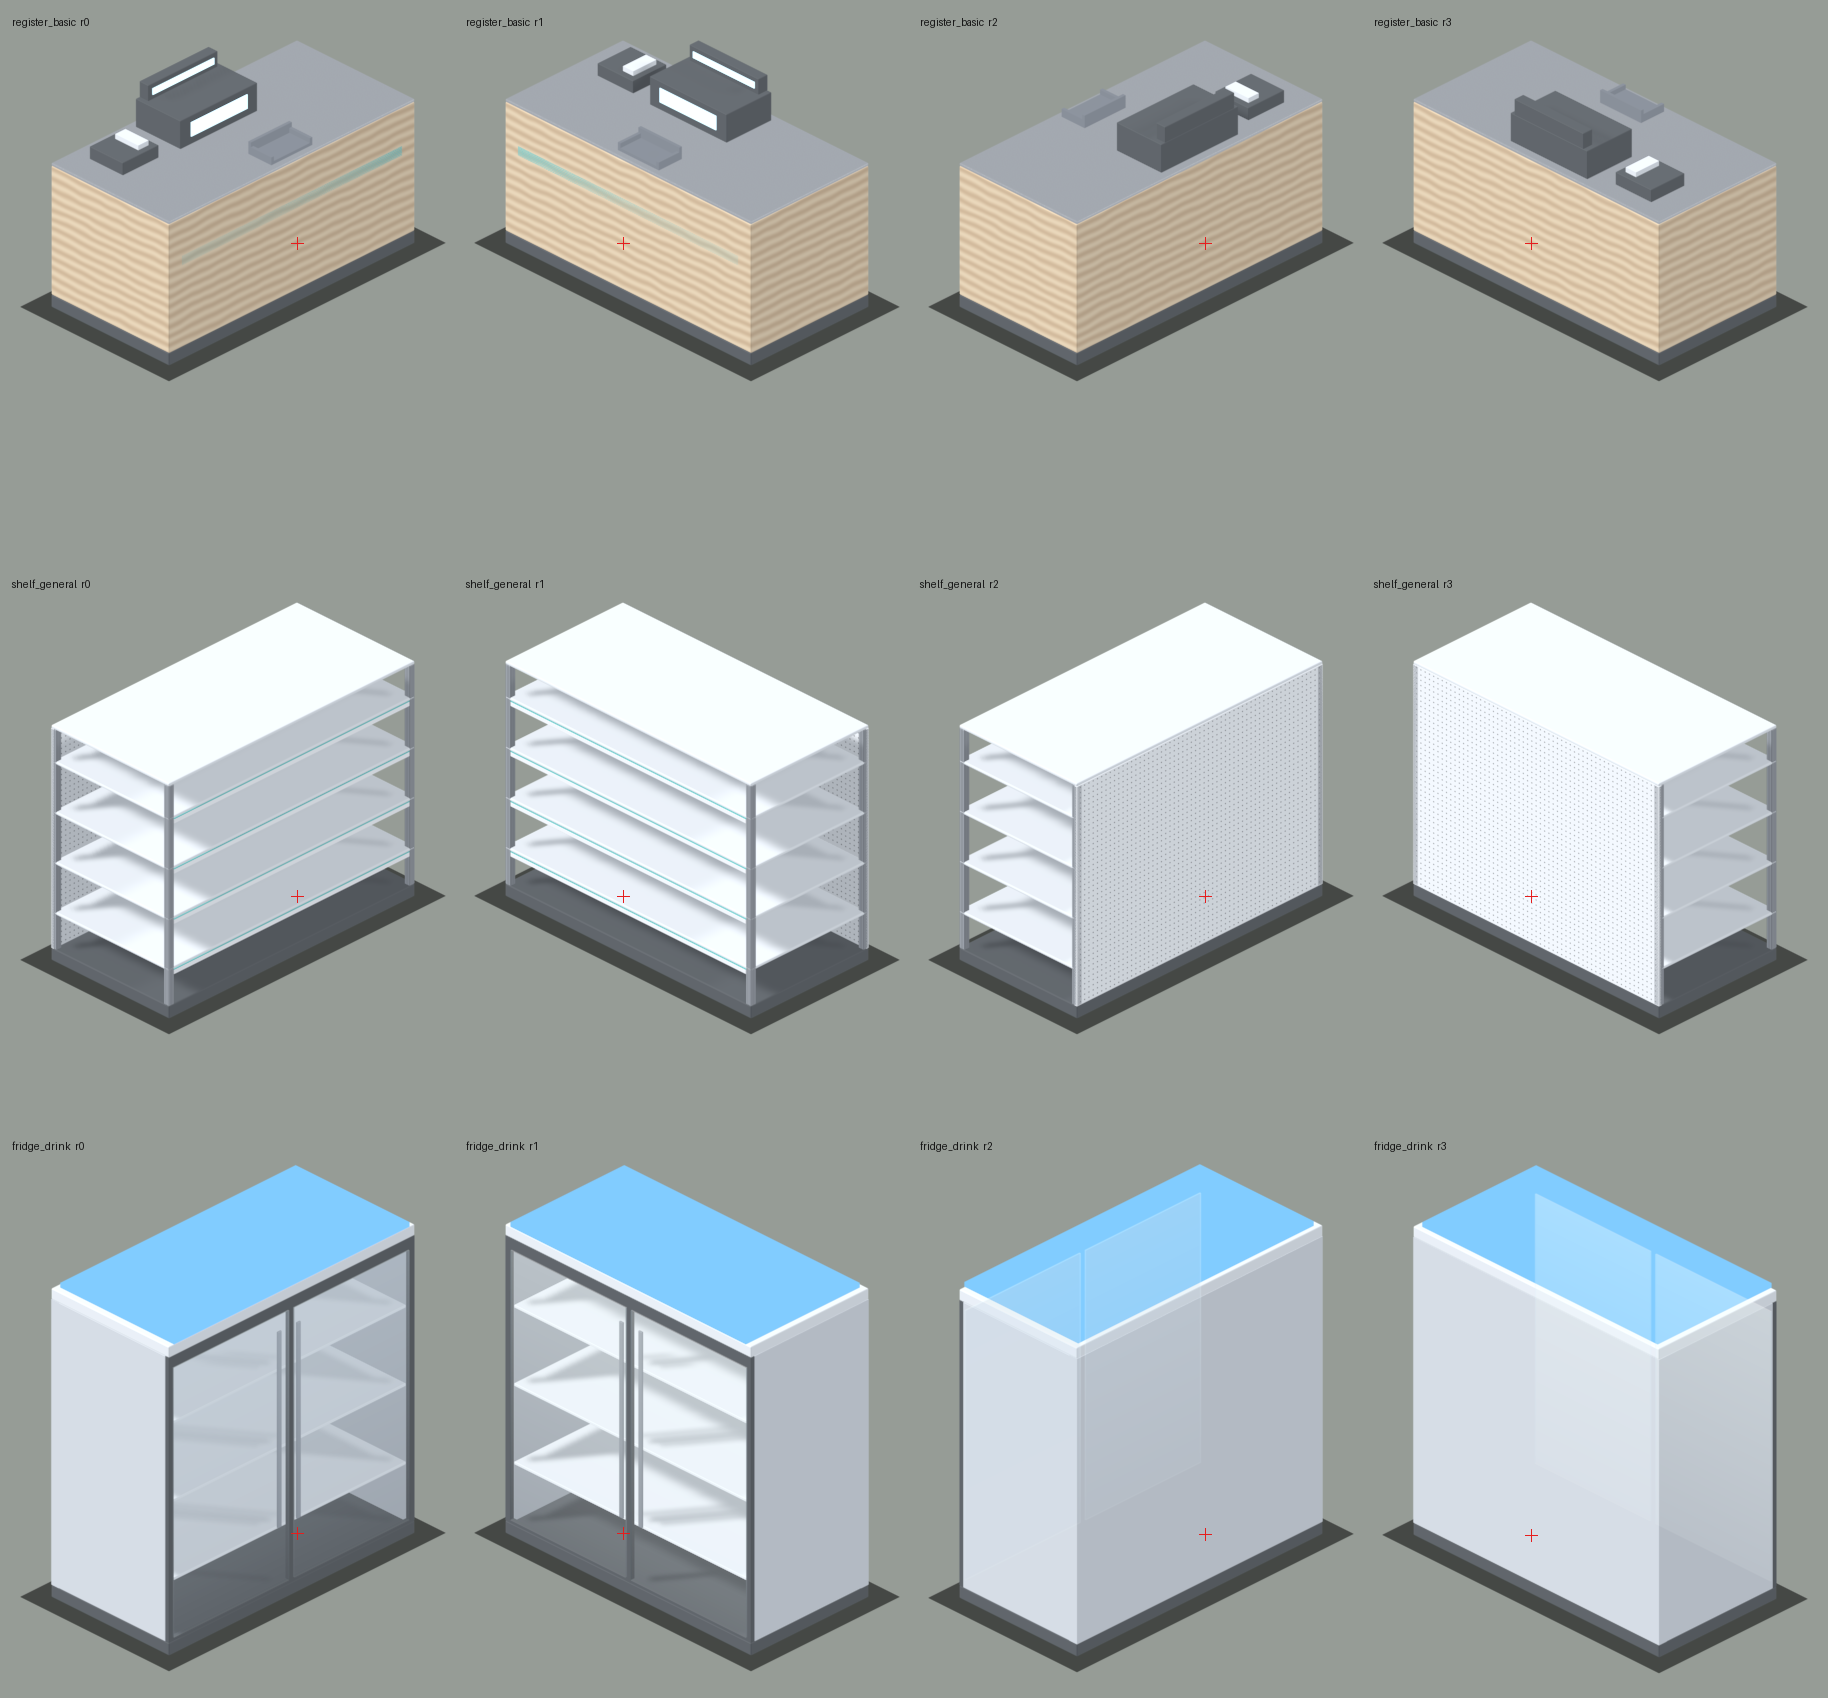
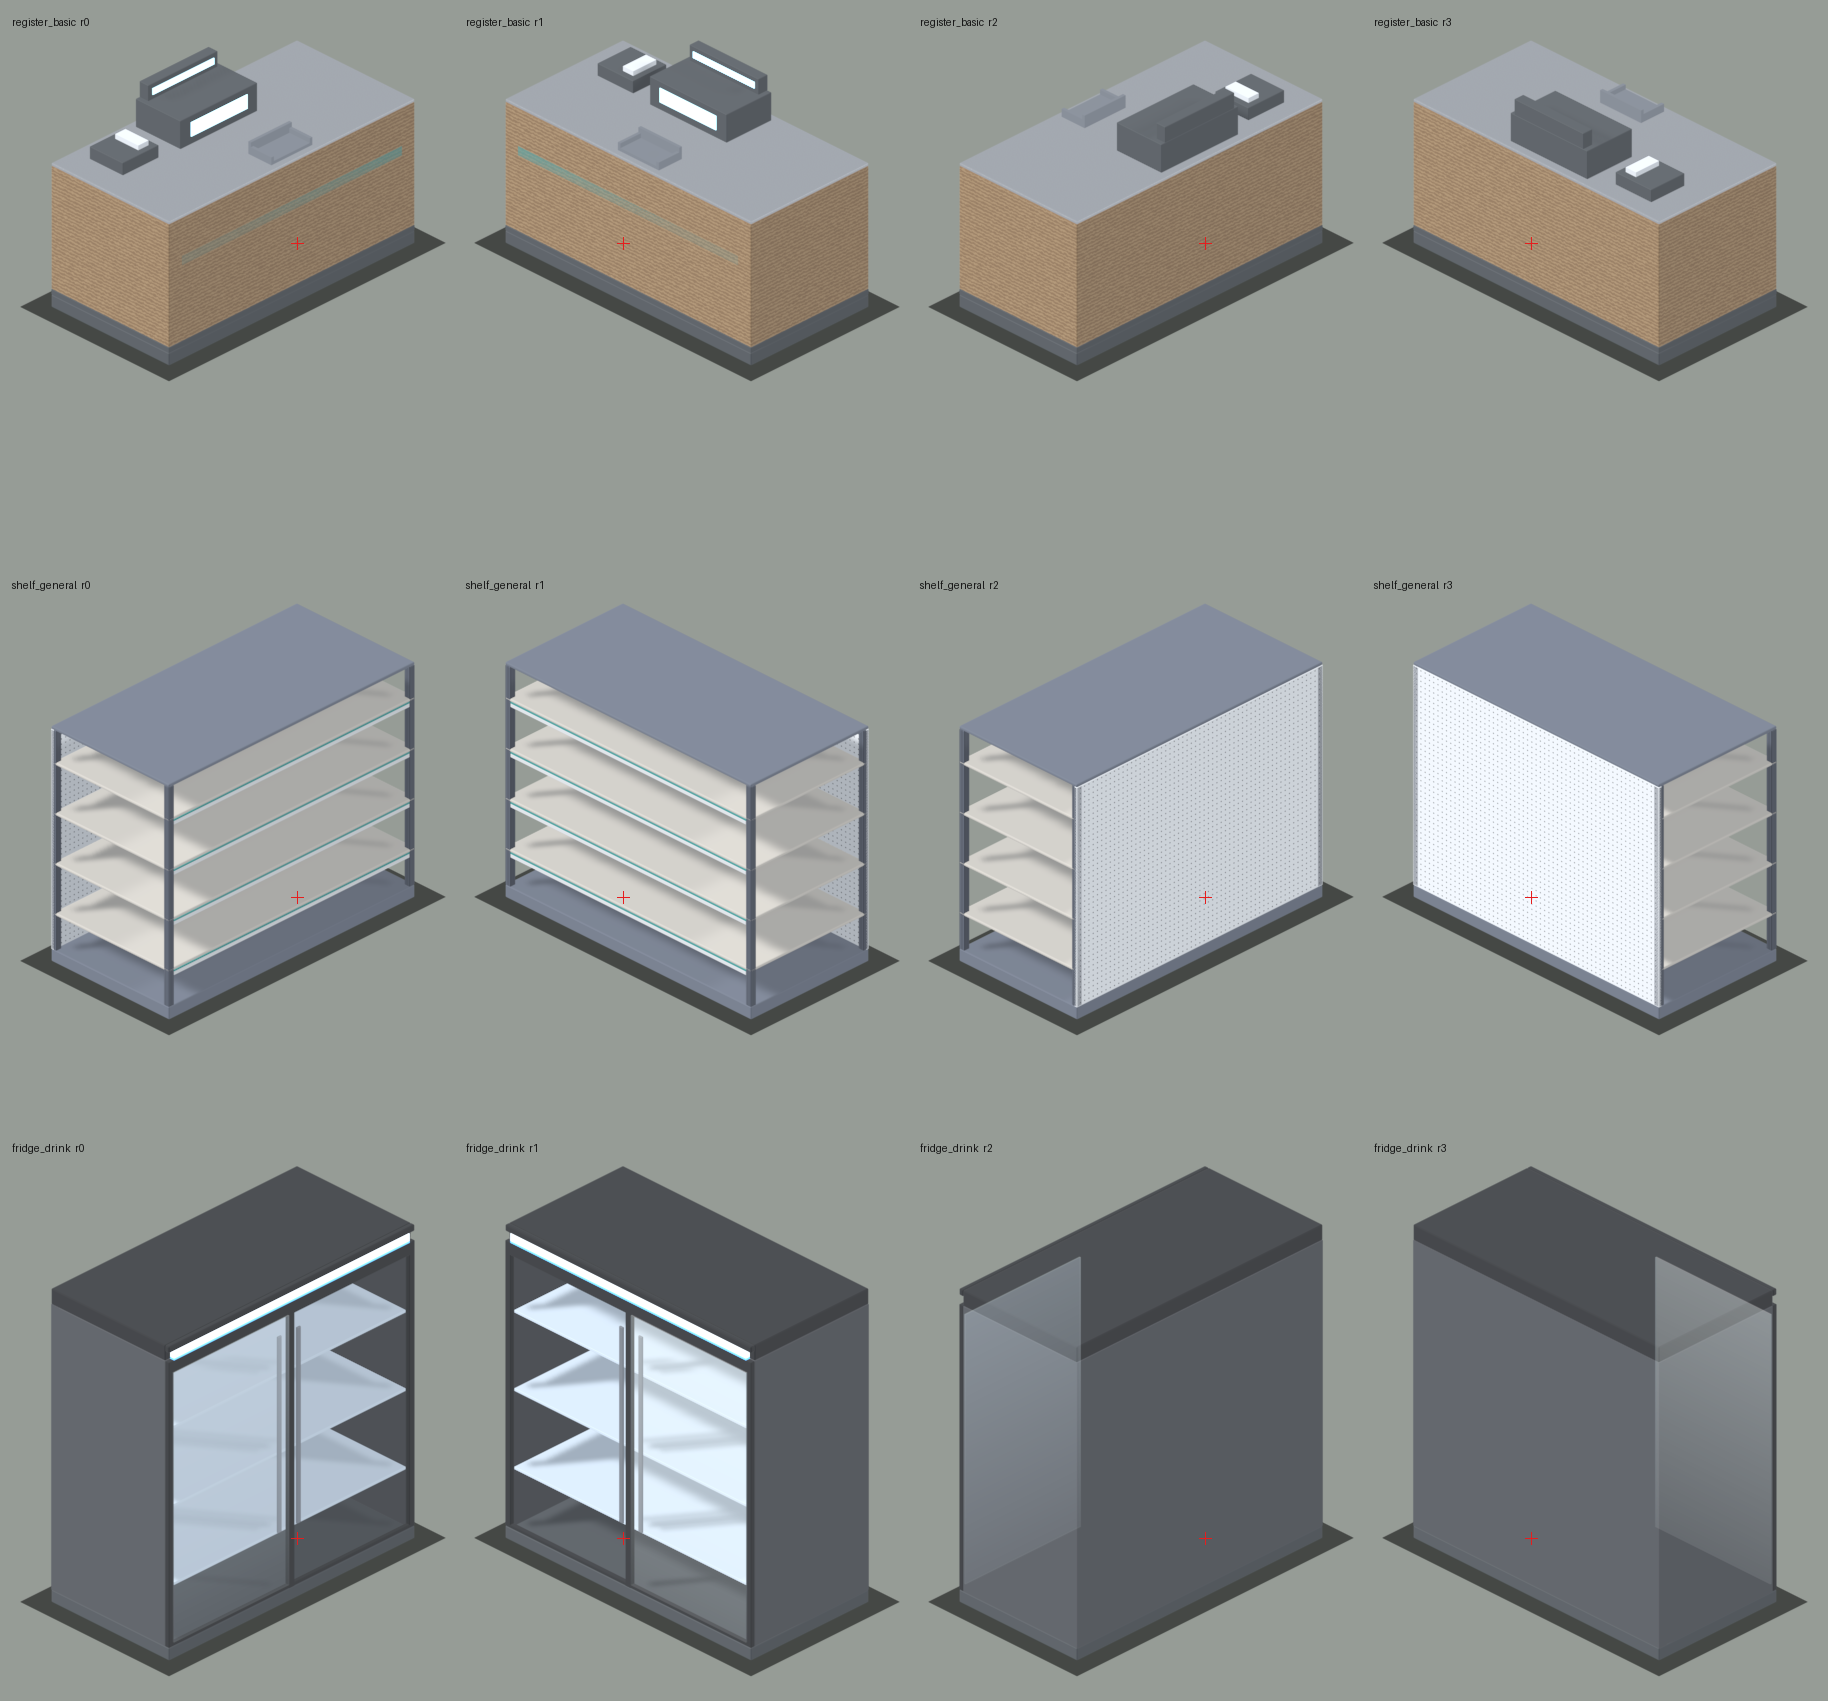
fix(art): fixture v2 review pass - cooler housing, gondola contrast, counter grain (#61)
- fridge_drink: charcoal top and frame, mid-grey housing sides, lit header
  strip only above the doors (cool white with a thin blue band), cool bright
  interior, glass only on the door side (far-side glass is no longer
  composited over the opaque housing).
- shelf_general: warm light-grey boards, #6b7280 uprights/plinth/top cap,
  slightly darker pegboard, grey price rails with thicker coloured strip.
- register_basic: walnut laminate with fine low-contrast grain, dark rubber
  edge band on the counter front, brighter POS screen.
- Colour values are linear (Blender base colour), so #6b7280 is stored as its
  linear equivalent.

diff --git a/tools/assets/blueprints.py b/tools/assets/blueprints.py
@@ -22,7 +22,8 @@ MATERIALS = (
     "dark_polymer", "label_rail", "product_surface",
     # procedural looks (fixture_looks.py, Issue #61 Phase B)
     "wood_laminate", "stainless", "pegboard", "slotted_upright", "glass_gradient",
-    "pos_screen", "header_emit", "accent_strip", "price_rail", "cabinet_grey",
+    "pos_screen", "header_white", "header_blue", "accent_strip", "price_rail",
+    "board_warm", "housing_grey", "cabinet_grey", "charcoal", "interior_cool",
 )
 BEVEL_TINY = 0.003         # edge bevel radii for small parts / standards (m)
 BEVEL_SMALL = 0.006        # edge bevel for panels, boards and tops (m)
@@ -79,12 +80,12 @@ def _shelf_general(d):
     with a coloured strip, and a dark base plinth. Same rows and slots as the basic rack."""
     x0, y0, x1, y1 = _body_rect(*_wh(d))
     height = d["dimensions_m"]["height"]
-    boxes = [Box(x0, y0, 0.0, x1, y1, BASE, "dark_polymer", bevel=BEVEL_SMALL)]          # base plinth
+    boxes = [Box(x0, y0, 0.0, x1, y1, BASE, "housing_grey", bevel=BEVEL_SMALL)]          # base plinth
     boxes.append(Box(x0, y0, BASE, x0 + 0.02, y1, height - 0.02, "pegboard"))           # pegboard back
     boxes += _uprights(x0, y0, x1, y1, BASE, height - 0.02, "slotted_upright")
-    boxes.append(Box(x0, y0, height - 0.02, x1, y1, height, "shelf_white", bevel=BEVEL_SMALL))  # top cap
+    boxes.append(Box(x0, y0, height - 0.02, x1, y1, height, "housing_grey", bevel=BEVEL_SMALL))  # top cap (dark edge)
     for z in ROW_HEIGHTS["shelf_general"]:
-        boxes.append(Box(x0 + 0.02, y0, z - BOARD, x1, y1, z, "shelf_white", bevel=BEVEL_SMALL))
+        boxes.append(Box(x0 + 0.02, y0, z - BOARD, x1, y1, z, "board_warm", bevel=BEVEL_SMALL))
         boxes += _price_rail(x0, y0, x1, y1, z - BOARD)
     return boxes, []
 
@@ -101,8 +102,8 @@ def _price_rail(x0, y0, x1, y1, shelf_underside):
     """Shelf-edge price rail under a board: light grey rail with a thin coloured strip at its top."""
     top = shelf_underside
     return [
-        Box(x1 - 0.02, y0 + POST, top - 0.034, x1, y1 - POST, top - 0.006, "price_rail", bevel=BEVEL_TINY),
-        Box(x1 - 0.02, y0 + POST, top - 0.006, x1, y1 - POST, top, "accent_strip"),
+        Box(x1 - 0.02, y0 + POST, top - 0.034, x1, y1 - POST, top - 0.010, "price_rail", bevel=BEVEL_TINY),
+        Box(x1 - 0.02, y0 + POST, top - 0.010, x1, y1 - POST, top, "accent_strip"),
     ]
 
 
@@ -157,7 +158,8 @@ def _register_basic(d):
     x0, y0, x1, y1 = _body_rect(*_wh(d))
     boxes = [
         Box(x0, y0, 0.0, x1, y1, BASE, "dark_polymer", bevel=BEVEL_SMALL),                 # kick plate
-        Box(x0, y0, BASE, x1, y1, 0.90, "wood_laminate", bevel=BEVEL_SMALL),               # counter front
+        Box(x0, y0, BASE, x1, y1, BASE + 0.035, "dark_polymer", bevel=BEVEL_TINY),         # dark rubber edge band
+        Box(x0, y0, BASE + 0.035, x1, y1, 0.90, "wood_laminate", bevel=BEVEL_SMALL),       # counter front
         Box(x0, y0, 0.90, x1, y1, 0.92, "stainless", bevel=BEVEL_SMALL),                   # service top (0.92 m)
         Box(x1 - 0.02, y0 + 0.10, 0.60, x1, y1 - 0.10, 0.66, "accent_strip"),              # brand-neutral stripe
         Box(x0 + 0.05, 0.25, 0.92, x0 + 0.40, 0.85, 1.10, "dark_polymer", bevel=BEVEL_TINY),  # POS terminal
@@ -219,23 +221,26 @@ def _fridge_pro(d, rows):
         Box(x0, y0, BASE, x0 + 0.06, y1, top, "cabinet_grey"),                             # back panel (W)
         Box(x0, y0, BASE, door_x0, y0 + POST, top, "cabinet_grey", bevel=BEVEL_TINY),     # side panels
         Box(x0, y1 - POST, BASE, door_x0, y1, top, "cabinet_grey", bevel=BEVEL_TINY),
-        Box(x0, y0, top, x1, y1, height - 0.03, "shelf_white", bevel=BEVEL_SMALL),         # top cap
-        Box(x0 + 0.03, y0 + 0.04, height - 0.03, x1, y1 - 0.04, height, "header_emit"),    # lit header sign
+        # dark charcoal housing top; the front strip above the doors carries the lit header
+        Box(x0, y0, top, door_x0, y1, height, "charcoal", bevel=BEVEL_SMALL),
+        Box(door_x0, y0, top + 0.06, x1, y1, height, "charcoal", bevel=BEVEL_SMALL),
+        Box(door_x0, y0 + 0.04, top, x1, y1 - 0.04, top + 0.012, "header_blue"),           # thin blue band
+        Box(door_x0, y0 + 0.04, top + 0.012, x1, y1 - 0.04, top + 0.06, "header_white"),   # cool-white header
         # interior light strips on the back wall (emissive, visible through the glass)
         Box(x0 + 0.06, y0 + 0.10, BASE + 0.05, x0 + 0.075, y0 + 0.13, top - 0.05, "cool_white_led"),
         Box(x0 + 0.06, y1 - 0.13, BASE + 0.05, x0 + 0.075, y1 - 0.10, top - 0.05, "cool_white_led"),
-        # dark door frame: stiles, centre mullion, top and bottom rails
-        Box(door_x0, y0, BASE, x1, y0 + POST, top, "dark_polymer", bevel=BEVEL_TINY),
-        Box(door_x0, y1 - POST, BASE, x1, y1, top, "dark_polymer", bevel=BEVEL_TINY),
-        Box(door_x0, mid - 0.02, BASE, x1, mid + 0.02, top, "dark_polymer"),
-        Box(door_x0, y0, top - 0.08, x1, y1, top, "dark_polymer", bevel=BEVEL_TINY),
-        Box(door_x0, y0, BASE, x1, y1, 0.10, "dark_polymer", bevel=BEVEL_TINY),
+        # charcoal door frame: stiles, centre mullion, top and bottom rails
+        Box(door_x0, y0, BASE, x1, y0 + POST, top, "charcoal", bevel=BEVEL_TINY),
+        Box(door_x0, y1 - POST, BASE, x1, y1, top, "charcoal", bevel=BEVEL_TINY),
+        Box(door_x0, mid - 0.02, BASE, x1, mid + 0.02, top, "charcoal"),
+        Box(door_x0, y0, top - 0.08, x1, y1, top, "charcoal", bevel=BEVEL_TINY),
+        Box(door_x0, y0, BASE, x1, y1, 0.10, "charcoal", bevel=BEVEL_TINY),
         # vertical door handles, one each side of the mullion (inside the glass line)
         Box(door_x0, mid - 0.09, 0.45, door_x0 + 0.012, mid - 0.06, top - 0.20, "frame_metal", bevel=BEVEL_TINY),
         Box(door_x0, mid + 0.06, 0.45, door_x0 + 0.012, mid + 0.09, top - 0.20, "frame_metal", bevel=BEVEL_TINY),
     ]
     for z in rows:
-        boxes.append(Box(x0 + 0.06, y0 + POST, z - BOARD, door_x0, y1 - POST, z, "shelf_white", bevel=BEVEL_TINY))
+        boxes.append(Box(x0 + 0.06, y0 + POST, z - BOARD, door_x0, y1 - POST, z, "interior_cool", bevel=BEVEL_TINY))
     glass = [
         Box(x1 - GLASS, y0 + POST, 0.10, x1, mid - 0.02, top - 0.08, "glass_gradient", "glass_front"),
         Box(x1 - GLASS, mid + 0.02, 0.10, x1, y1 - POST, top - 0.08, "glass_gradient", "glass_front"),

diff --git a/tools/assets/fixture_looks.py b/tools/assets/fixture_looks.py
@@ -74,12 +74,15 @@ def wood_laminate(mat):
     wave = nodes.new("ShaderNodeTexWave")
     wave.wave_type = "BANDS"
     wave.bands_direction = "Z"
-    wave.inputs["Scale"].default_value = 5.0
-    wave.inputs["Distortion"].default_value = 1.6
-    wave.inputs["Detail"].default_value = 1.0
+    # fine, low-contrast grain: many thin bands, noisy distortion, narrow colour range
+    wave.inputs["Scale"].default_value = 14.0
+    wave.inputs["Distortion"].default_value = 4.0
+    wave.inputs["Detail"].default_value = 3.0
+    wave.inputs["Detail Scale"].default_value = 4.0
     links.new(vec, wave.inputs["Vector"])
-    col = ramp(nodes, links, wave.outputs["Fac"], [(0.0, (0.56, 0.41, 0.26)), (0.6, (0.66, 0.51, 0.34)), (1.0, (0.72, 0.58, 0.40))])
-    bsdf = principled(nodes, links, (0.6, 0.5, 0.4), roughness=0.46, specular=0.4)
+    # Base colours in this module are LINEAR (Blender default); the values below are a walnut-tone laminate.
+    col = ramp(nodes, links, wave.outputs["Fac"], [(0.0, (0.26, 0.16, 0.085)), (0.6, (0.33, 0.21, 0.11)), (1.0, (0.40, 0.27, 0.15))])
+    bsdf = principled(nodes, links, (0.3, 0.2, 0.1), roughness=0.5, specular=0.35)
     links.new(col, bsdf.inputs["Base Color"])
     output(nodes, links, bsdf.outputs[0])
 
@@ -113,24 +116,24 @@ def pegboard(mat):
     vor.inputs["Scale"].default_value = 30.0
     links.new(vec, vor.inputs["Vector"])
     col = ramp(nodes, links, vor.outputs["Distance"], [(0.0, (0.03, 0.03, 0.035)), (0.2, (0.03, 0.03, 0.035)), (0.26, (0.80, 0.82, 0.84))])
-    bsdf = principled(nodes, links, (0.8, 0.82, 0.84), roughness=0.6)
+    bsdf = principled(nodes, links, (0.45, 0.44, 0.42), roughness=0.6)
     links.new(col, bsdf.inputs["Base Color"])
     output(nodes, links, bsdf.outputs[0])
 
 
 def slotted_upright(mat):
-    """Gondola end upright: grey standard with a fine slot pattern (Brick mortar lines)."""
+    """Gondola end upright: #6b7280 standard with a fine slot pattern (Brick mortar lines)."""
     nt, nodes, links = fresh_tree(mat)
     vec = object_vector(nodes, links, (9.0, 9.0, 9.0))
     brick = nodes.new("ShaderNodeTexBrick")
-    brick.inputs["Color1"].default_value = (0.50, 0.53, 0.57, 1.0)
-    brick.inputs["Color2"].default_value = (0.44, 0.47, 0.51, 1.0)
-    brick.inputs["Mortar"].default_value = (0.10, 0.10, 0.11, 1.0)
+    brick.inputs["Color1"].default_value = (0.147, 0.168, 0.216, 1.0)     # #6b7280 (linear)
+    brick.inputs["Color2"].default_value = (0.125, 0.145, 0.19, 1.0)
+    brick.inputs["Mortar"].default_value = (0.02, 0.02, 0.025, 1.0)
     brick.inputs["Mortar Size"].default_value = 0.05
     brick.inputs["Brick Width"].default_value = 0.5
     brick.inputs["Row Height"].default_value = 0.25
     links.new(vec, brick.inputs["Vector"])
-    bsdf = principled(nodes, links, (0.5, 0.53, 0.57), metallic=0.6, roughness=0.42)
+    bsdf = principled(nodes, links, (0.147, 0.168, 0.216), metallic=0.4, roughness=0.42)
     links.new(brick.outputs["Color"], bsdf.inputs["Base Color"])
     output(nodes, links, bsdf.outputs[0])
 
@@ -157,11 +160,17 @@ def glass_gradient(mat):
 
 
 def pos_screen(mat):
-    emissive(mat, (0.62, 0.88, 1.0), 1.6)
+    emissive(mat, (0.45, 0.82, 1.0), 2.4)
 
 
-def header_emit(mat):
-    emissive(mat, (0.20, 0.55, 1.0), 1.1)
+def header_white(mat):
+    """Cool-white lit header strip on the cooler front."""
+    emissive(mat, (0.86, 0.94, 1.0), 1.5)
+
+
+def header_blue(mat):
+    """Thin blue band under the cool-white header strip."""
+    emissive(mat, (0.15, 0.50, 1.0), 2.0)
 
 
 def plain(color, metallic=0.0, roughness=0.5):
@@ -180,10 +189,15 @@ LOOKS = {
     "slotted_upright": slotted_upright,
     "glass_gradient": glass_gradient,
     "pos_screen": pos_screen,
-    "header_emit": header_emit,
-    "accent_strip": plain((0.10, 0.52, 0.50), roughness=0.4),
-    "price_rail": plain((0.80, 0.81, 0.83), roughness=0.4),
-    "cabinet_grey": plain((0.58, 0.61, 0.65), roughness=0.5),
+    "header_white": header_white,
+    "header_blue": header_blue,
+    "accent_strip": plain((0.04, 0.30, 0.28), roughness=0.4),
+    "price_rail": plain((0.66, 0.67, 0.68), roughness=0.4),
+    "board_warm": plain((0.56, 0.53, 0.48), roughness=0.55),       # warm light grey (sRGB ~#c8c2b8)
+    "housing_grey": plain((0.147, 0.168, 0.216), roughness=0.5),   # #6b7280 (linear)
+    "cabinet_grey": plain((0.085, 0.09, 0.10), roughness=0.5),     # mid grey housing
+    "charcoal": plain((0.02, 0.022, 0.025), roughness=0.45),       # dark charcoal frame/top
+    "interior_cool": plain((0.62, 0.72, 0.82), roughness=0.4),     # cool bright interior
 }
 
 

diff --git a/tools/assets/render_fixtures.py b/tools/assets/render_fixtures.py
@@ -191,6 +191,17 @@ def render_to(path, visible):
     bpy.ops.render.render(write_still=True)
 
 
+# Types whose glass is culled on the far side (Issue #61 Phase B). Other types keep every glass box.
+FAR_GLASS_CULLED = {"fridge_drink"}
+
+
+def glass_faces_camera(box, centre):
+    """The camera looks from +X/+Y (game coordinates), so glass on the +X/+Y half of the body is the
+    visible front. The glass layer is composited over the body, so far-side glass must be left out."""
+    gx, gy = (box.x0 + box.x1) / 2.0, (box.y0 + box.y1) / 2.0
+    return (gx - centre[0]) + (gy - centre[1]) > 0.0
+
+
 def mesh_bbox_game(objs):
     lo = [float("inf")] * 3
     hi = [float("-inf")] * 3
@@ -259,7 +270,11 @@ def main():
             clear_models()
             rot = blueprints.rotated(bp, d, r)
             objs = {"body": [], "glass_front": [], "shadow": []}
+            centre = blueprints.mesh_bbox(rot["boxes"], layers=("body",))
+            centre = [(centre[0][k] + centre[1][k]) / 2.0 for k in (0, 1)]
             for i, b in enumerate(rot["boxes"]):
+                if type_id in FAR_GLASS_CULLED and b.layer == "glass_front" and not glass_faces_camera(b, centre):
+                    continue    # far-side glass would be composited over the opaque housing; omit it
                 objs[b.layer].append(add_box("%s_r%d_%d" % (type_id, r, i), b.x0, b.y0, b.z0, b.x1, b.y1, b.z1, b.material, b.bevel))
             sx0, sy0, sx1, sy1 = rot["shadow"]
             objs["shadow"].append(add_box("%s_r%d_shadow" % (type_id, r), sx0, sy0, 0.0, sx1, sy1, 0.002, "shadow"))
